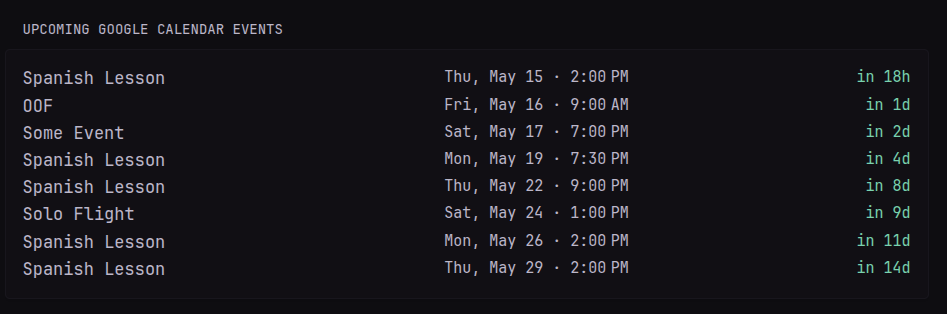
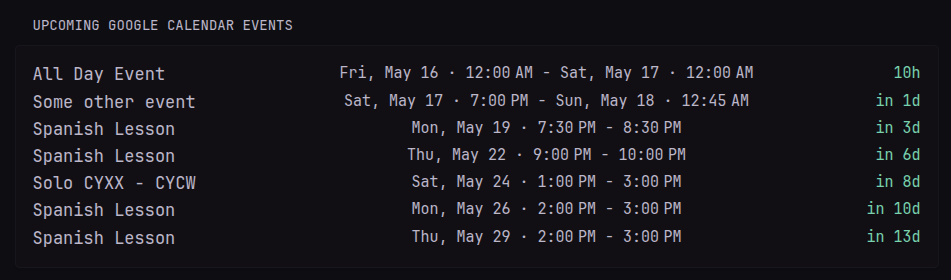
Update local time issue for all day events

diff --git a/widgets/google-calendar-list-by-anant-j/README.md b/widgets/google-calendar-list-by-anant-j/README.md
@@ -34,19 +34,30 @@
         <div>
           {{ range $events.JSON.Array "items" }}
           {{ $start := .String "start.dateTime" }}
+          {{ $end := .String "end.dateTime" }}
           {{ $isAllDay := eq $start "" }}
           {{ if $isAllDay }}
-            {{ $start = print (.String "start.date") "T09:00:00Z" | parseTime "2006-01-02T15:04:05Z" }}
+            {{ $start = print (.String "start.date") | parseLocalTime "DateOnly" }}
+            {{ $end = print (.String "end.date") | parseLocalTime "DateOnly" }}
           {{ else }}
             {{ $start = $start | parseTime "rfc3339" }}
+            {{ $end = $end | parseTime "rfc3339" }}            
           {{ end }}
+          {{ $startDateOnly := $start | formatTime "DateOnly" }}
+          {{ $endDateOnly := $end | formatTime "DateOnly" }}
+          {{ $isStartAndEndDateSame := eq $startDateOnly $endDateOnly }}
 
           <div style="display: flex; justify-content: space-between; align-items: flex-start;">
             <a href="https://calendar.google.com/calendar/u/0" target="_blank" class="size-h1" style="text-align: left; width: 215px;">
               {{ .String "summary" }}
             </a>
             <a href="https://calendar.google.com/calendar/u/0" target="_blank" class="size-h3" style="text-align: left;">
-              {{ $start | formatTime "Mon, Jan 2 · 3:04 PM" }}
+              {{ $start | formatTime "Mon, Jan 2 · 3:04 PM" }} 
+              {{ if $isStartAndEndDateSame }}
+                  - {{ $end | formatTime "3:04 PM" }}
+                {{ else }}
+                  - {{ $end | formatTime "Mon, Jan 2 · 3:04 PM" }}
+              {{ end }}
             </a>
             <div class="color-primary size-h3" style="text-align: right; width: 75px;" {{ $start | toRelativeTime }}>
             </div>
@@ -55,7 +66,6 @@
         </div>
       {{ end }}
     {{ end }}
-
 ```
 
 ## Info
